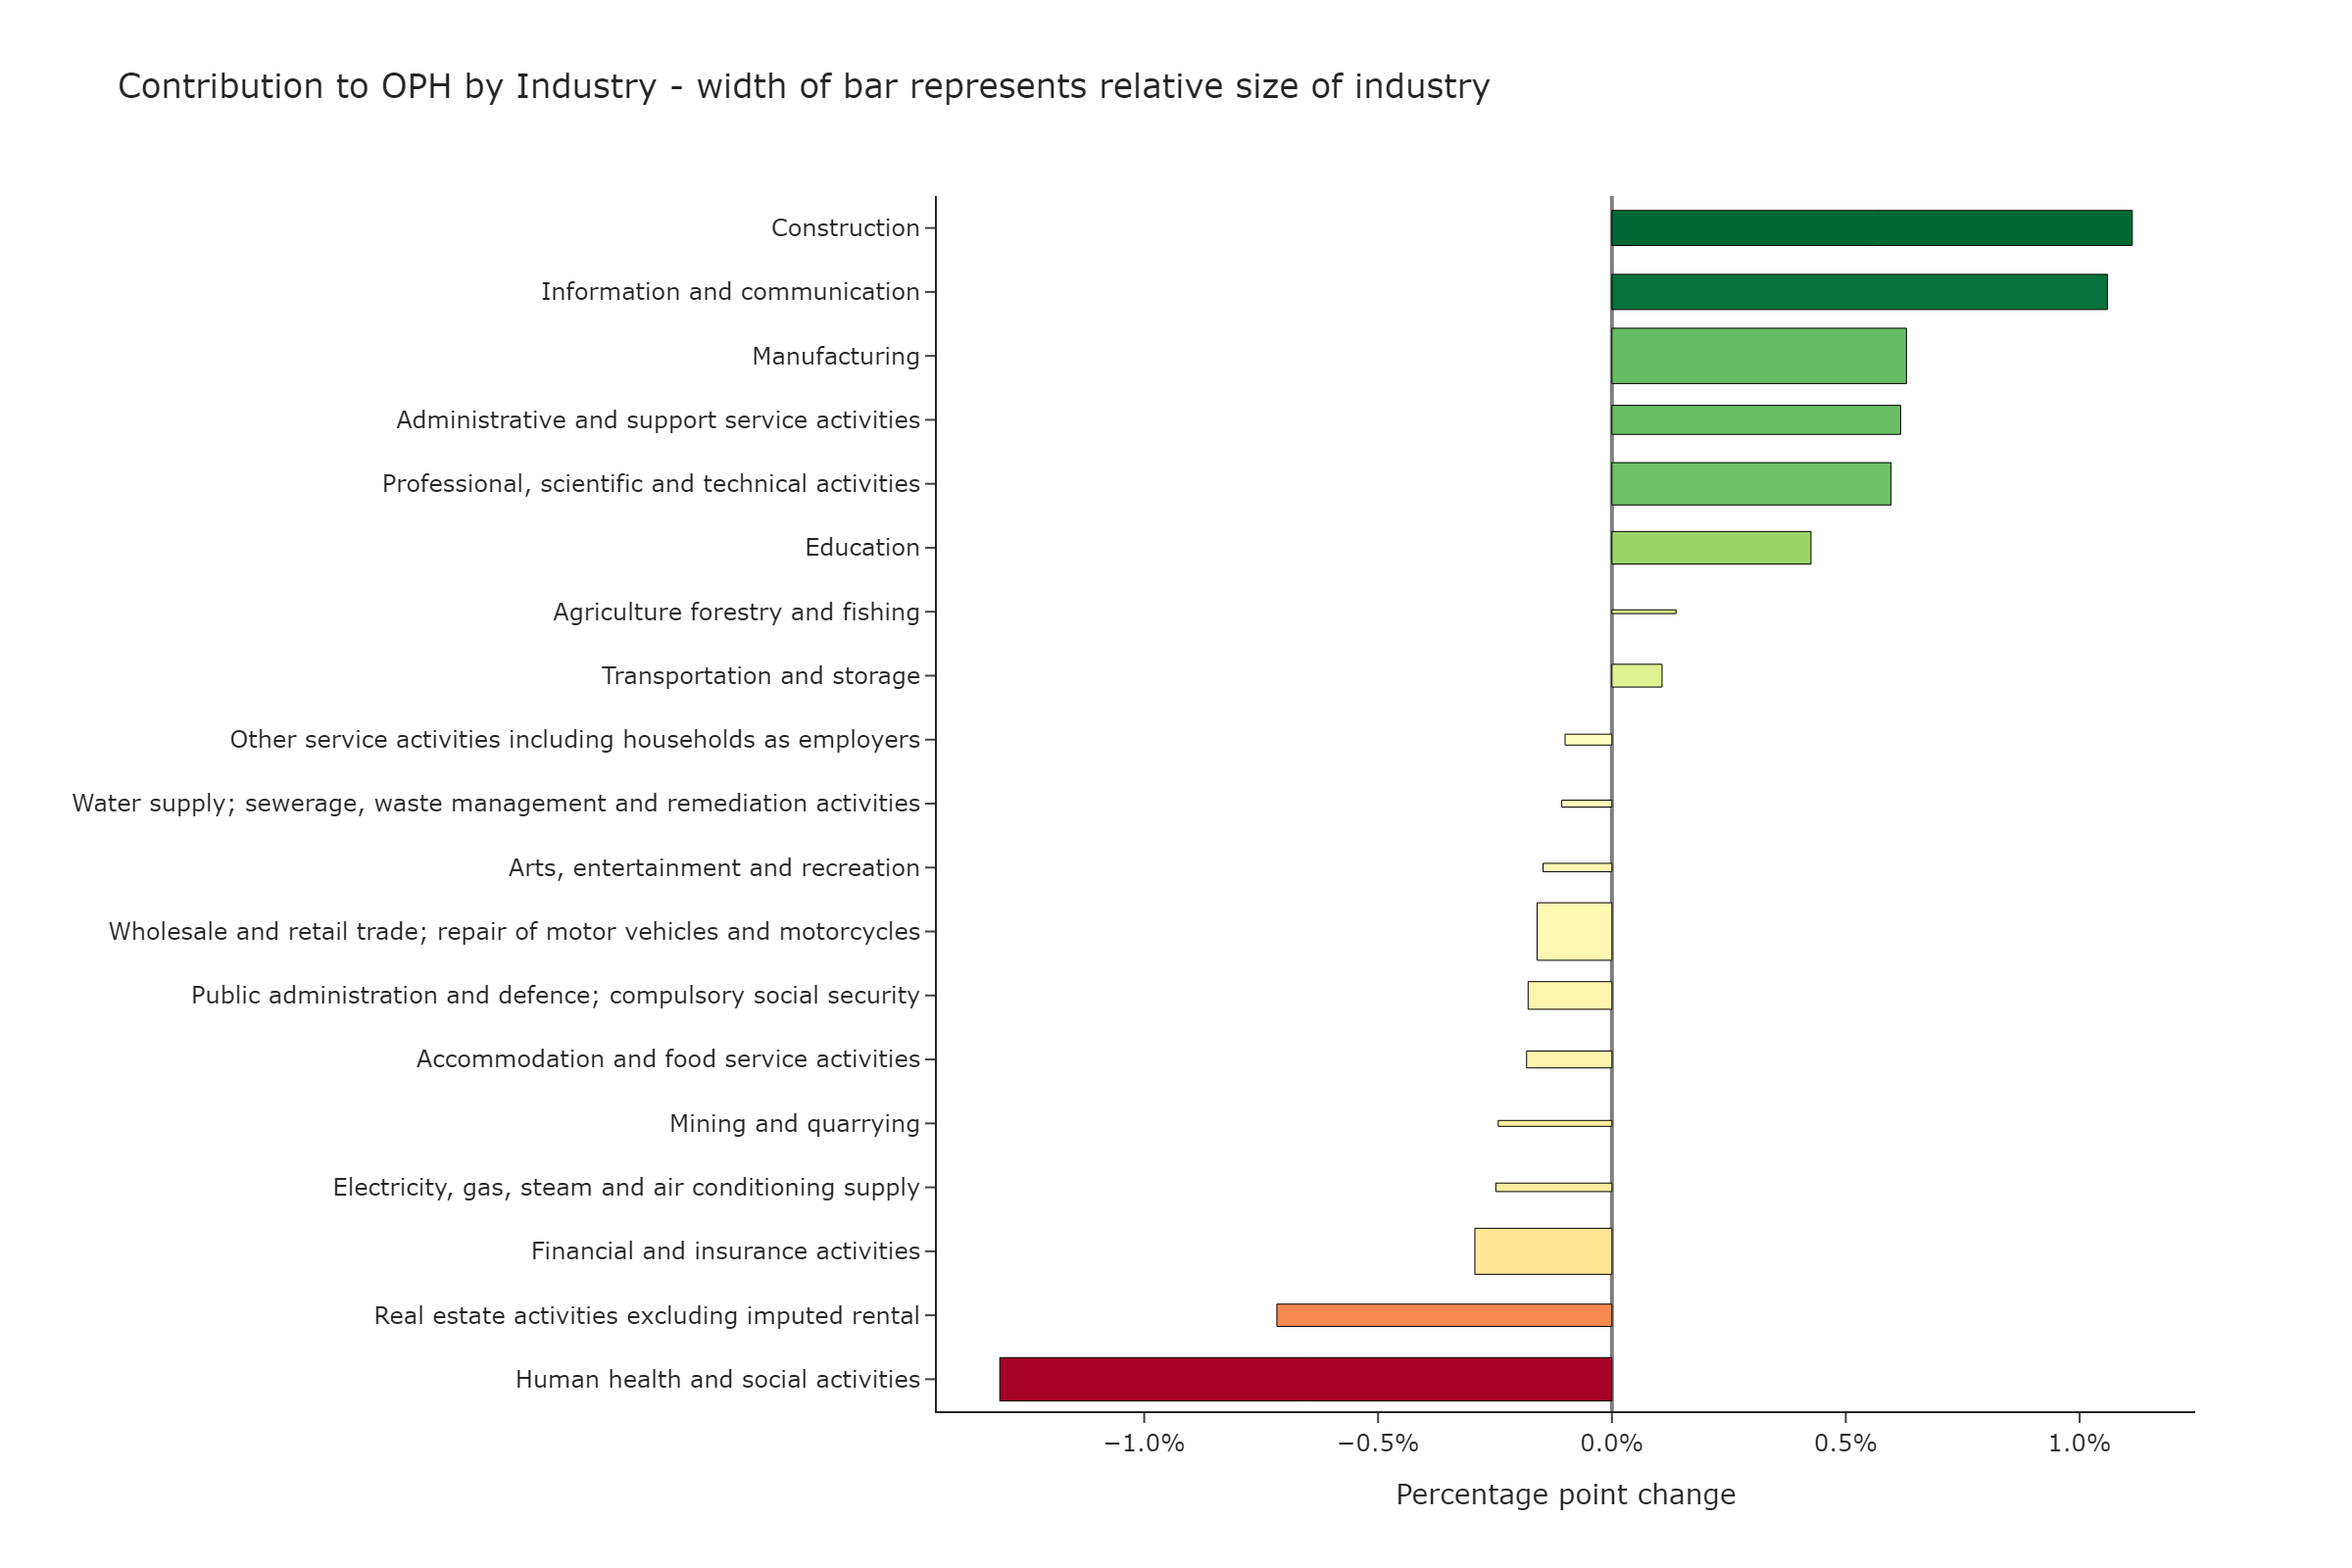
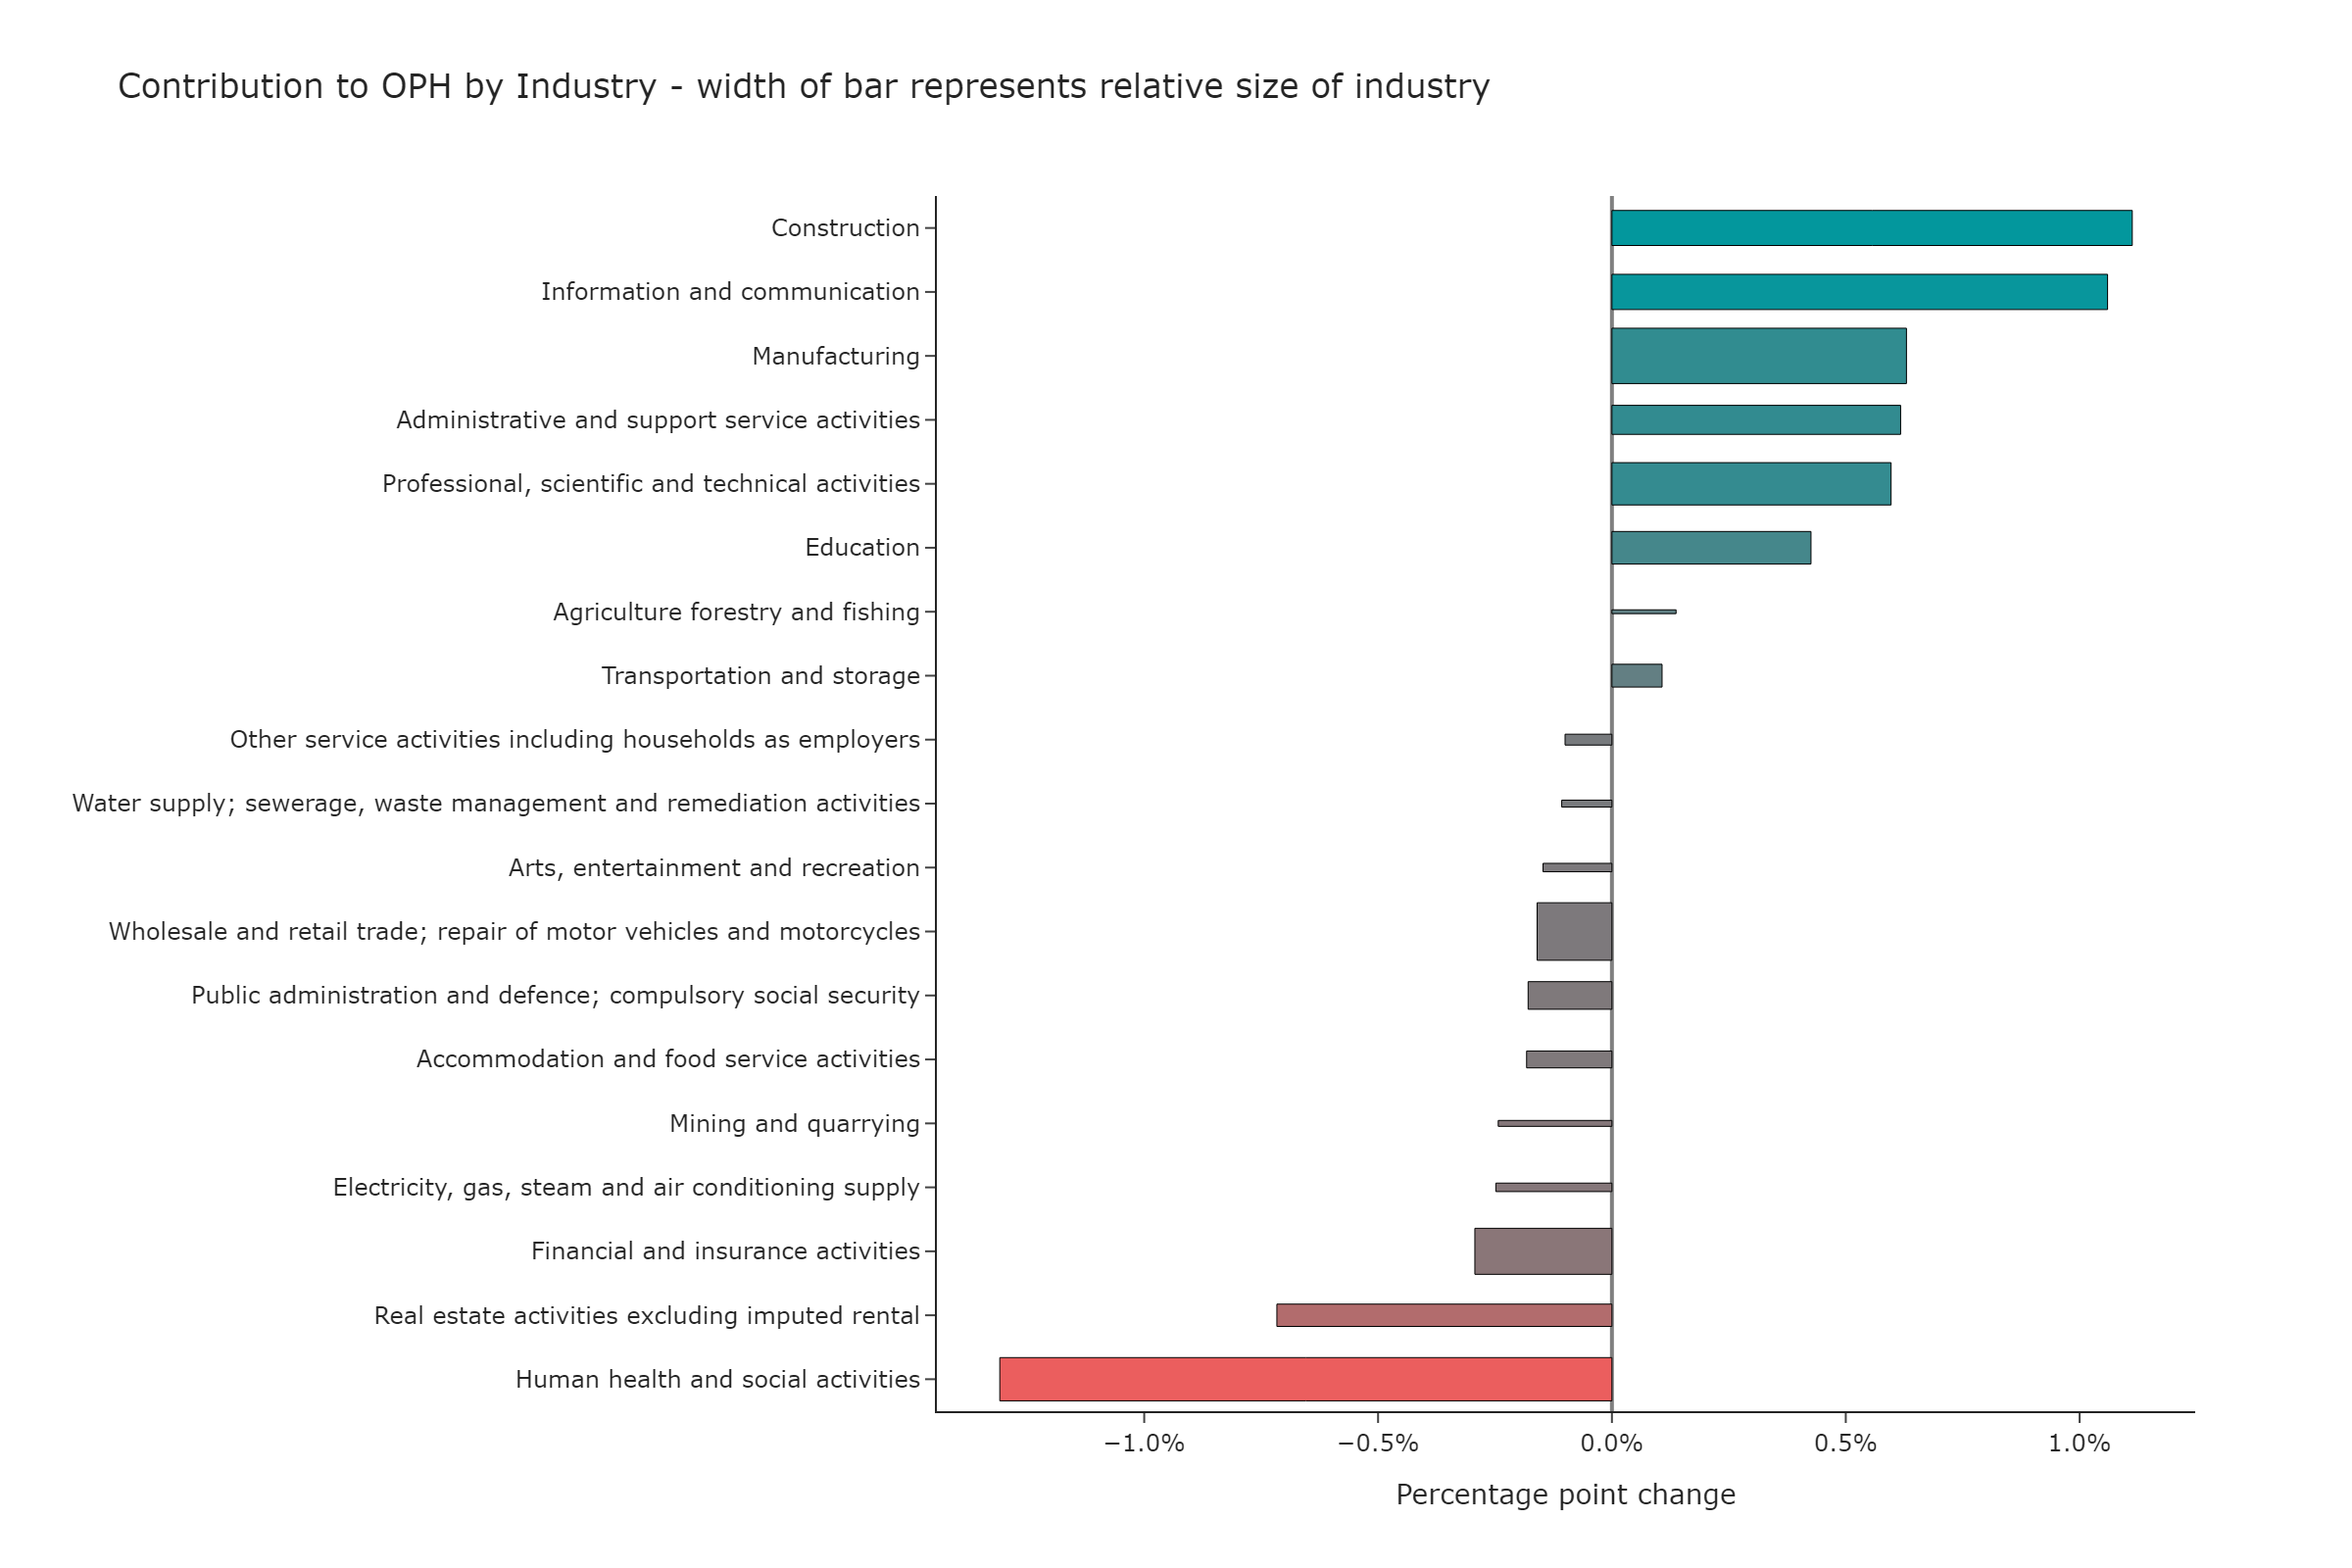
New visualisation for blog

diff --git a/scripts/Flash_Estimate_Processing_20252802.py b/scripts/Flash_Estimate_Processing_20252802.py
@@ -10,12 +10,14 @@ from plotly.subplots import make_subplots
 
 TPI_colours = ["#eb5e5e", "#03979d", "#9c4f8b"] # peachy colour, greeny blue, lighter purple
 # TPI_colours = ["#6C2283", "#39A7DF"] # dark purple, blue
+TPI_One = "#03979d"
+TPI_Two = "#eb5e5e"
 
-def rebase_chain_linked_quarters(df, new_base_year):
-    df = df.copy()
+def rebase_chain_linked_quarters(data, new_base_year):
+    data = data.copy()
     
     # Extract year from Quarter (e.g., 1997.25 -> 1997)
-    df["Year"] = df["Quarter"].astype(int)
+    data["Year"] = data["Quarter"].astype(int)
 
     def rebase_group(group):
         # Get the mean of the base year for this group
@@ -27,12 +29,12 @@ def rebase_chain_linked_quarters(df, new_base_year):
         return group
 
     # Apply rebase per group
-    df = df.groupby(["Country", "Industry", "Variable"], group_keys=False).apply(rebase_group)
+    data = data.groupby(["Country", "Industry", "Variable"], group_keys=False).apply(rebase_group)
 
     # Drop temporary year column
-    df = df.drop(columns="Year")
+    data = data.drop(columns="Year")
 
-    return df
+    return data
 
 def quarter_to_numeric(q):
     year, qtr = q.split(" ")
@@ -56,9 +58,14 @@ def line_graph(data, year, title, yAxisTitle, legendTitle):
         data, 
         x="Quarter", 
         y=data.columns.drop("Quarter").tolist(), 
-        title=f"{title} ({year} = 100)",
+        title=f"{title} (Q1 {year} = 100)",
         labels={"value": f"{yAxisTitle}", "variable": f"{legendTitle}"},
         color_discrete_sequence=TPI_colours)
+
+        tickvals = [q for q in data['Quarter'] if q.endswith("Q1")]
+
+        fig.update_xaxes(tickvals=tickvals)
+
         return fig
 
 def qoq(data, title, legendTitle):
@@ -178,10 +185,13 @@ def horizontal_bar(data, title):
         orientation='h',
         marker=dict(
             color=data['Contribution'],
-            colorscale='RdYlGn',
+            colorscale=[
+                [0, TPI_Two],  
+                [1, TPI_One]
+            ],
             line=dict(color='black', width=0.5)
-        ),
-        width=[w / max(data['Size']) * 0.9 for w in data['Size']],  # Normalize bar thickness
+        ), 
+        width=[w / max(data['Size']) * 0.9 for w in data['Size']],  # Normalise bar thickness
     ))
 
     # Clean layout
@@ -201,6 +211,95 @@ def horizontal_bar(data, title):
     )
     return fig
 
+def OPH(data, title):
+    data['Output per hour worked'] *= 100
+    data['GVA'] *= 100
+    data['Hours worked'] *= 100
+    # data.drop(data.index[0], inplace=True)
+     # Create subplots with shared y-axis
+    fig = make_subplots(
+        rows=1, cols=2,
+        shared_yaxes=True,
+        horizontal_spacing=0.05,
+        subplot_titles=(
+            "Change in <b>output per hour worked</b>",
+            "Change in <b>GVA</b> and <b>hours worked</b>"
+        )
+    )
+
+    # Left chart: Productivity
+    fig.add_trace(
+        go.Bar(
+            x=data['Output per hour worked'],
+            y=data['Industry'],
+            orientation='h',
+            name='Productivity',
+            marker_color=TPI_colours[0],
+            text=data['Output per hour worked'].map(lambda x: f"{x:.1f}%"),
+            textposition='auto'
+        ),
+        row=1, col=1
+    )
+
+    # Right chart: GVA and Hours Worked
+    fig.add_trace(
+        go.Bar(
+            x=data['GVA'],
+            y=data['Industry'],
+            orientation='h',
+            name='GVA',
+            marker_color=TPI_colours[1]
+        ),
+        row=1, col=2
+    )
+
+    fig.add_trace(
+        go.Bar(
+            x=data['Hours worked'],
+            y=data['Industry'],
+            orientation='h',
+            name='Hours Worked',
+            marker_color=TPI_colours[2]
+        ),
+        row=1, col=2
+    )
+
+    # Update layout
+    fig.update_layout(
+        height=1000,
+        barmode='group',
+        title_text=f'{title}',
+        showlegend=True,
+        legend=dict(x=0.65, y=1.1, orientation='h'),
+        margin=dict(l=120, r=20, t=60, b=20),
+    )
+
+    # Center x-axes at zero
+    fig.update_xaxes(title_text="", range=[-35, 35], row=1, col=1, zeroline=True)
+    fig.update_xaxes(title_text="", range=[-35, 35], row=1, col=2, zeroline=True)
+
+    # Reverse y-axis for top-to-bottom sorting (optional)
+    fig.update_yaxes(autorange='reversed')
+    return fig
+
+def New_GDP(data):
+    custom_colours = [TPI_One if g >= 0 else TPI_Two for g in data['Growth']]
+    fig = go.Figure(go.Bar(
+        x=data['Growth'],
+        y=data['Country'],
+        orientation='h',
+        marker_color=custom_colours,
+        text=data['Note'],
+        hovertemplate='%{y}: %{x}%<br>%{text}<extra></extra>'
+    ))
+
+    fig.update_layout(
+        title="Q1 2025 GDP Growth by Country",
+        xaxis_title="Growth Rate (%)",
+        yaxis_title="",
+        template="plotly_white"
+    )
+    return fig
 
 # Flash_Estimate = pd.read_csv('../src/New-release/OPH Q1 2025.csv', skiprows=7, usecols=[0,1,2,3], names=["Quarter", "GVA", "Hours Worked", "OPH"])
 # # Change from Q4 1997 to 1997 Q4
@@ -214,15 +313,17 @@ def horizontal_bar(data, title):
 
 # fig.show()
 
-# Flash_Estimate_OPH = pd.read_csv('../src/New-release/OPH Q1 2025.csv', skiprows=7, usecols=[0,1,2,3], names=["Quarter", "Gross Value Added", "Hours Worked", "Output Per Hour"])
-# Flash_Estimate_OPH["Quarter"] = Flash_Estimate_OPH["Quarter"].str.replace(r"(Q\d) (\d{4})", r"\2 \1", regex=True)
+Flash_Estimate_OPH = pd.read_csv('../src/New-release/OPH Q1 2025.csv', skiprows=7, usecols=[0,1,2,3], names=["Quarter", "Gross Value Added", "Hours Worked", "Output Per Hour"])
+Flash_Estimate_OPH["Quarter"] = Flash_Estimate_OPH["Quarter"].str.replace(r"(Q\d) (\d{4})", r"\2 \1", regex=True)
 # Flash_Estimate_OPH["Quarter"] = Flash_Estimate_OPH["Quarter"].apply(quarter_to_numeric)
 # Flash_Estimate_OPH = pd.melt(Flash_Estimate_OPH, id_vars=['Quarter'], var_name='Variable', value_name='Value')
 # Flash_Estimate_OPH['Country'] = 'UK Flash Estimate'
 # Flash_Estimate_OPH['Industry'] = 'Total'
 # # Flash_Estimate_OPH['Variable'] = 'Flash Estimate Output per Hour'
 # Flash_Estimate_OPH = rebase_chain_linked_quarters(Flash_Estimate_OPH, 2020)
-# print(Flash_Estimate_OPH)
+fig = line_graph(Flash_Estimate_OPH, 1997, "Output per hour worked vs Hours worked vs Gross Value Added for Q1 2025 Flash Estimate data", "", "")
+fig.show()
+fig.write_image("../out/visualisations/Q1 2025 Flash Estimate.png", width=1200, height=800, scale=2)
 
 # Dataset = pd.read_csv('../out/Long_Dataset.csv')
 # Dataset = pd.concat([Dataset, Flash_Estimate_OPH])
@@ -276,5 +377,20 @@ def horizontal_bar(data, title):
 # fig.write_image("../out/visualisations/Contribution to OPH by Industry.png", width=1200, height=800, scale=2)
 # fig.show()
 
-OPH_Breakdown = pd.read_excel('../src/New-release/GVA OPH HW.xlsx', skiprows=6, usecols=[0,1,2,3])
-print(OPH_Breakdown)
+# OPH_Breakdown = pd.read_excel('../src/New-release/GVA OPH HW.xlsx', skiprows=6, usecols=[0,1,2,3])
+# fig = OPH(OPH_Breakdown, "Industry Breakdown: Output per hour worked, GVA, and Hours Worked")
+# fig.write_image("../out/visualisations/OPH GVA HW.png", width=1200, height=800, scale=2)
+# fig.show()
+
+# GDPdata = {
+#     "Country": ["UK", "Canada", "Italy", "Germany", "France", "Japan", "US"],
+#     "Growth": [0.7, 0.4, 0.3, 0.2, 0.1, -0.2, -0.3],
+#     "Note": ["0.7%", "0.4%*", "0.3%", "0.2%", "0.1%", "-0.2%", "-0.3%"],
+#     "Colour": ["green", "green", "green", "green", "green", "red", "red"]
+# }
+
+# GDPdata = pd.DataFrame(GDPdata)
+# GDPdata = GDPdata.sort_values(by="Growth", ascending=True)
+# fig = New_GDP(GDPdata)
+# fig.write_image("../out/visualisations/Q1 GDP.png", width=1200, height=800, scale=2)
+# fig.show()
